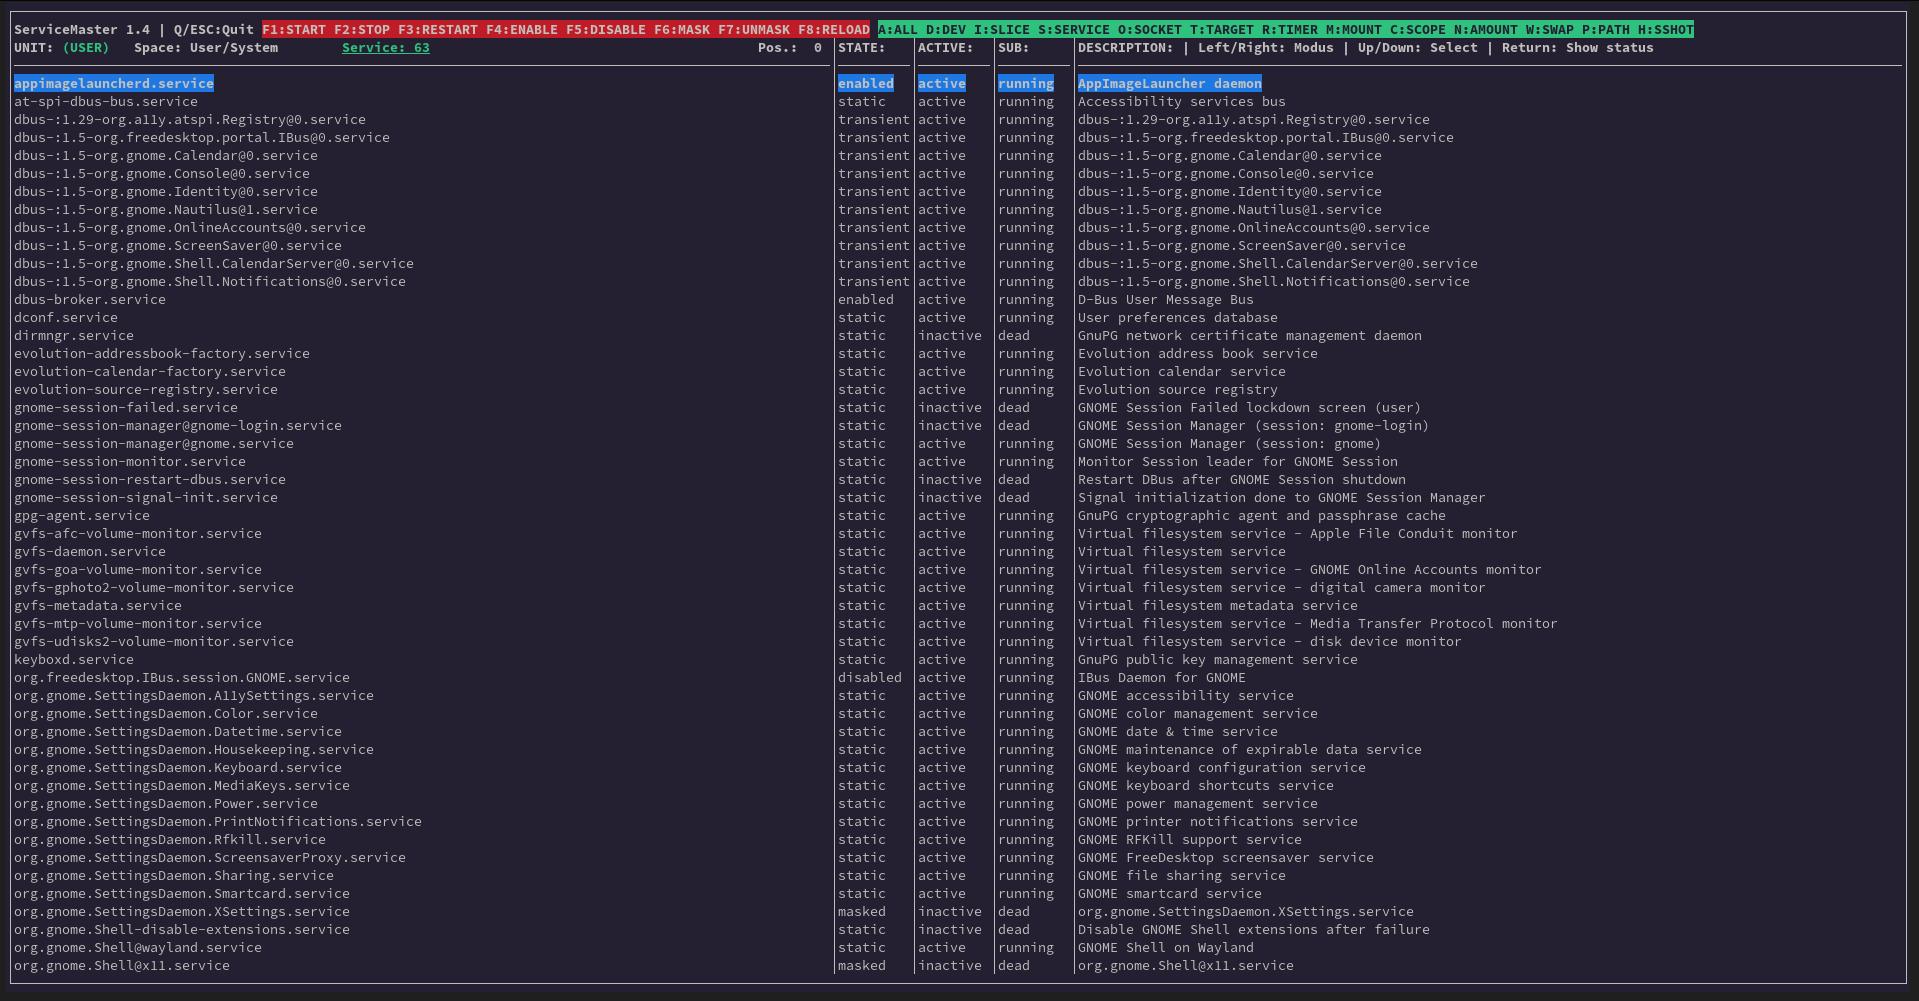
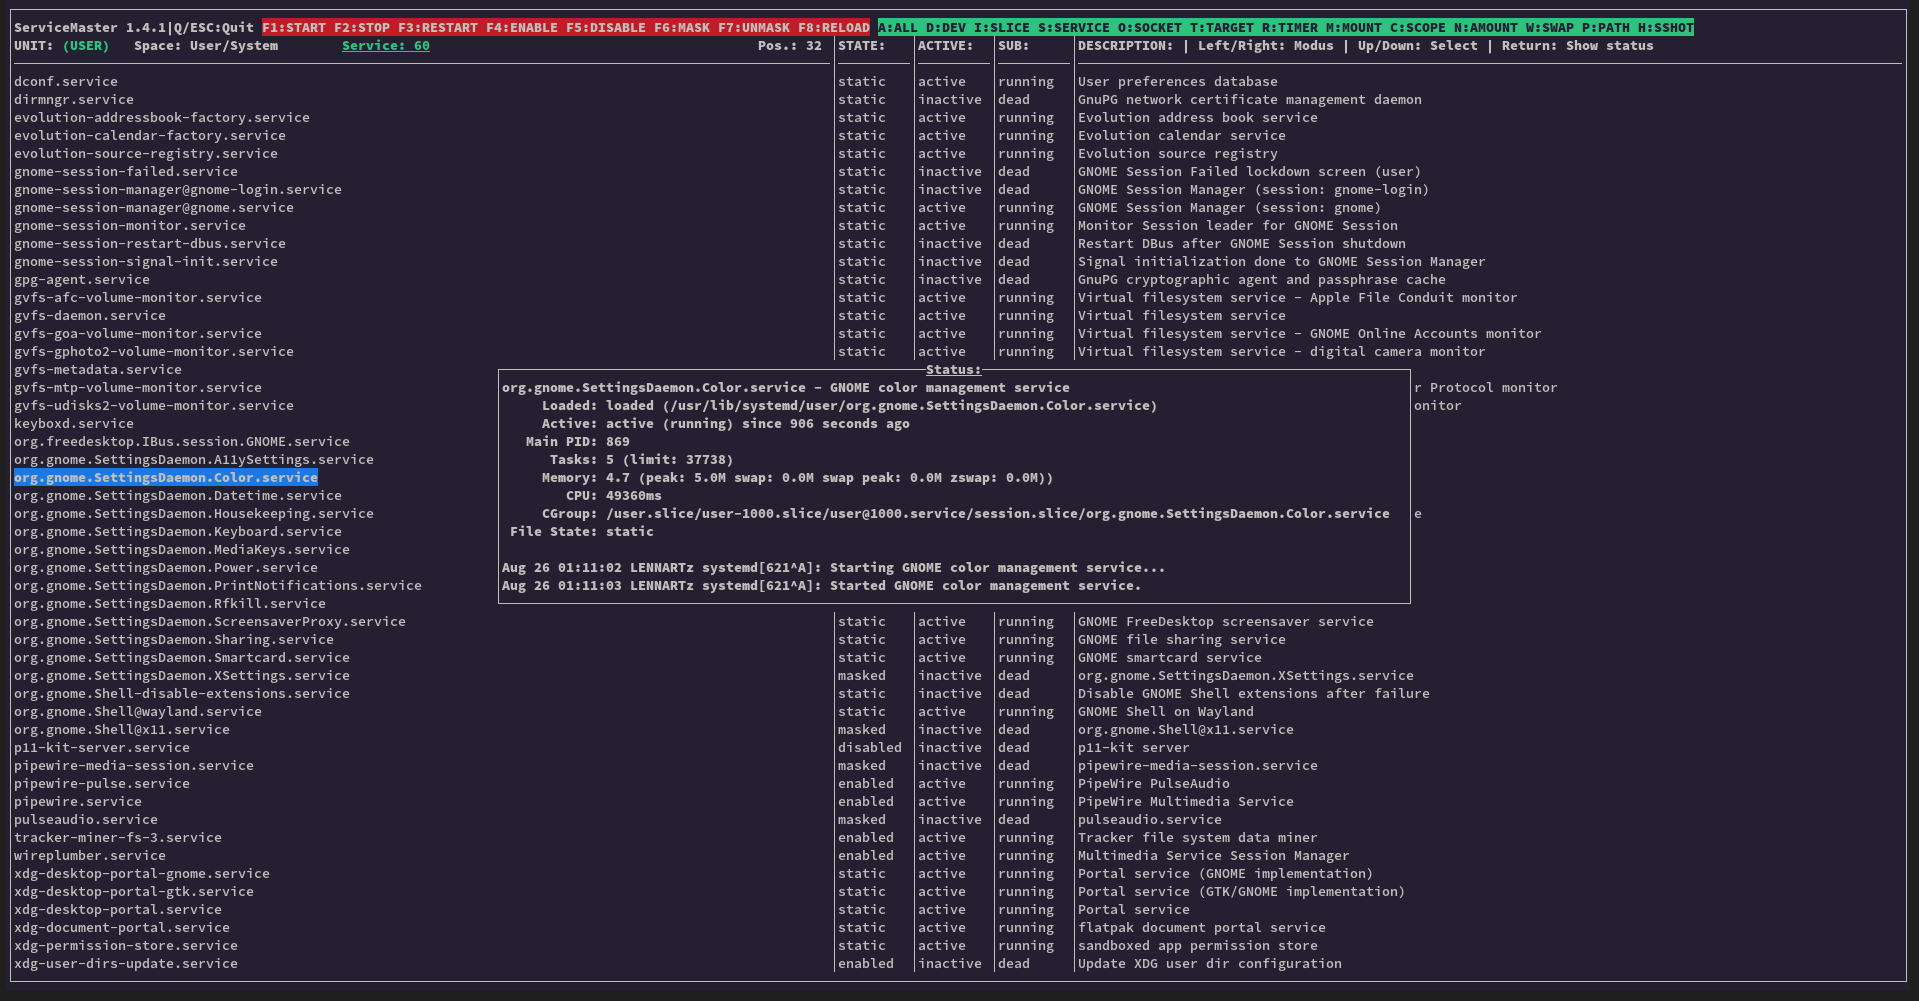
Update to 1.4.1 - Better build script - Better error handling / safer code - Added man page (short introduction)

Changed region(s): [[0.0, 0.0, 0.8916, 0.991]]

diff --git a/display.h b/display.h
@@ -9,10 +9,10 @@
 #define KEY_SPACE 32
 
 #define D_ESCOFF_MS      300000LLU
-#define D_VERSION        "1.4"
+#define D_VERSION        "1.4.1"
 #define D_FUNCTIONS      "F1:START F2:STOP F3:RESTART F4:ENABLE F5:DISABLE F6:MASK F7:UNMASK F8:RELOAD"
 #define D_SERVICE_TYPES  "A:ALL D:DEV I:SLICE S:SERVICE O:SOCKET T:TARGET R:TIMER M:MOUNT C:SCOPE N:AMOUNT W:SWAP P:PATH H:SSHOT"
-#define D_HEADLINE       "ServiceMaster "D_VERSION" | Q/ESC:Quit"
+#define D_HEADLINE       "ServiceMaster "D_VERSION"|Q/ESC:Quit"
 
 #define D_XLOAD 104
 #define D_XACTIVE 114

diff --git a/README.md b/README.md
@@ -1,4 +1,4 @@
-# ServiceMaster 1.4
+# ServiceMaster 1.4.1
 
 ServiceMaster is a powerful terminal-based tool for managing systemd units on Linux systems. It provides an intuitive interface for viewing and controlling system and user units, making it easier to manage your units without leaving the command line.
 
